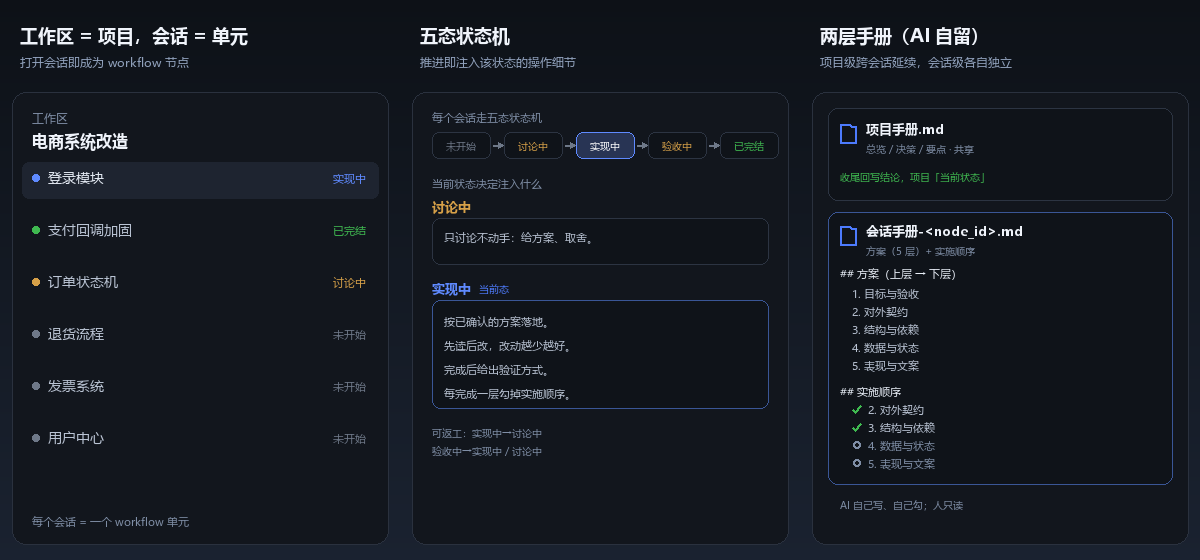
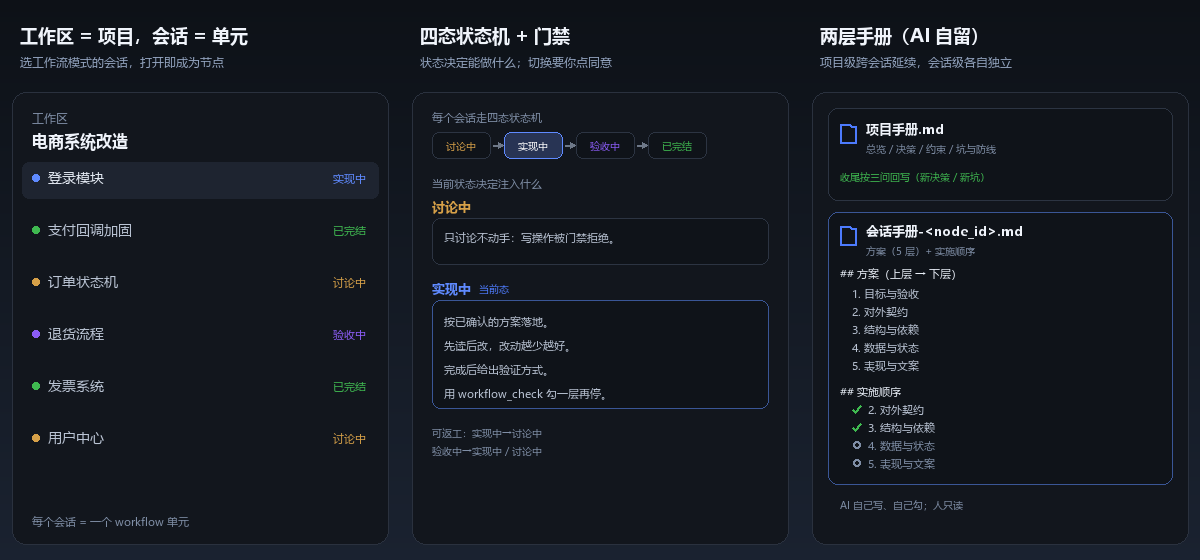
docs(cover): 封面改成四态 + 门禁 / 新手册结构，修正脚本输出路径

diff --git a/scripts/make-cover.py b/scripts/make-cover.py
@@ -1,7 +1,7 @@
-"""生成插件封面：总宽 1200（与单图同宽），横向分三个区域：
+"""生成插件封面：总宽 1200（与单图同宽），横向分三个区域：
 
   左  ：会话列表（工作区 = 项目，会话 = 单元）
-  中  ：五态状态机 + 状态决定注入什么
+  中  ：四态状态机 + 状态决定注入什么 + 写操作门禁
   右  ：两层手册（项目手册 / 会话手册）
 
 每个区域先在 400 宽的图层上画，再整体拼到总图上。
@@ -28,13 +28,14 @@ ROW_CHILD_TITLE = (186, 196, 212)
 STATE_IDLE = (110, 120, 136)
 STATE_WARN = (214, 160, 72)
 STATE_BRAND = (95, 138, 255)
+STATE_VERIFY = (139, 92, 246)
 STATE_SUCCESS = (63, 185, 80)
 CODE_BG = (15, 19, 25)
 CODE_BORDER = (44, 52, 66)
 
 FONT_REG = "C:/Windows/Fonts/msyh.ttc"
 FONT_BOLD = "C:/Windows/Fonts/msyhbd.ttc"
-OUT = r"C:\Users\Administrator\Documents\deepseek-harness\default-workspace\dsh-agent-workflow\assets\cover.png"
+OUT = r"C:\Users\QINBAI\Documents\deepseek-harness\default-workspace\dsh-agent-workflow\assets\cover.png"
 
 PANEL_TOP, PANEL_BOTTOM = 92, H - 16
 
@@ -70,7 +71,7 @@ def panel_box(d):
 # ------------------------------------------------------------------ 左：会话
 def build_sessions():
     layer, d = new_column()
-    header(d, "工作区 = 项目，会话 = 单元", "打开会话即成为 workflow 节点")
+    header(d, "工作区 = 项目，会话 = 单元", "选工作流模式的会话，打开即成为节点")
     panel_box(d)
 
     small = ImageFont.truetype(FONT_REG, 12)
@@ -86,9 +87,9 @@ def build_sessions():
         ("登录模块", "实现中", STATE_BRAND, True),
         ("支付回调加固", "已完结", STATE_SUCCESS, False),
         ("订单状态机", "讨论中", STATE_WARN, False),
-        ("退货流程", "未开始", STATE_IDLE, False),
-        ("发票系统", "未开始", STATE_IDLE, False),
-        ("用户中心", "未开始", STATE_IDLE, False),
+        ("退货流程", "验收中", STATE_VERIFY, False),
+        ("发票系统", "已完结", STATE_SUCCESS, False),
+        ("用户中心", "讨论中", STATE_WARN, False),
     ]
     y = PANEL_TOP + 76
     for title, state, color, selected in rows:
@@ -107,7 +108,7 @@ def build_sessions():
 # ------------------------------------------------------------------ 中：状态机
 def build_state():
     layer, d = new_column()
-    header(d, "五态状态机", "推进即注入该状态的操作细节")
+    header(d, "四态状态机 + 门禁", "状态决定能做什么；切换要你点同意")
     panel_box(d)
 
     small = ImageFont.truetype(FONT_REG, 11)
@@ -116,13 +117,12 @@ def build_state():
     code_font = ImageFont.truetype(FONT_REG, 11)
     dim_font = ImageFont.truetype(FONT_REG, 10)
 
-    d.text((32, PANEL_TOP + 18), "每个会话走五态状态机", font=small, fill=TEXT_MUTED)
+    d.text((32, PANEL_TOP + 18), "每个会话走四态状态机", font=small, fill=TEXT_MUTED)
 
     states = [
-        ("未开始", STATE_IDLE, False),
         ("讨论中", STATE_WARN, False),
         ("实现中", STATE_BRAND, True),
-        ("验收中", STATE_WARN, False),
+        ("验收中", STATE_VERIFY, False),
         ("已完结", STATE_SUCCESS, False),
     ]
     pill_w, pill_h = 58, 26
@@ -142,7 +142,7 @@ def build_state():
 
     d.text((32, PANEL_TOP + 106), "讨论中", font=head_font, fill=STATE_WARN)
     d.rounded_rectangle([(32, PANEL_TOP + 126), (COL_W - 32, PANEL_TOP + 126 + 46)], radius=8, fill=CODE_BG, outline=CODE_BORDER, width=1)
-    d.text((44, PANEL_TOP + 138), "只讨论不动手：给方案、取舍。", font=code_font, fill=ROW_CHILD_TITLE)
+    d.text((44, PANEL_TOP + 138), "只讨论不动手：写操作被门禁拒绝。", font=code_font, fill=ROW_CHILD_TITLE)
 
     d.text((32, PANEL_TOP + 188), "实现中", font=head_font, fill=STATE_BRAND)
     d.text((32 + d.textlength("实现中", font=head_font) + 8, PANEL_TOP + 190), "当前态", font=dim_font, fill=ACCENT)
@@ -152,7 +152,7 @@ def build_state():
         "按已确认的方案落地。",
         "先读后改，改动越少越好。",
         "完成后给出验证方式。",
-        "每完成一层勾掉实施顺序。",
+        "用 workflow_check 勾一层再停。",
     ]
     ly = box_top + 14
     for line in lines:
@@ -185,8 +185,8 @@ def build_manual():
     d.rounded_rectangle([(x0, PANEL_TOP + 16), (x1, PANEL_TOP + 16 + 92)], radius=10, fill=CODE_BG, outline=CODE_BORDER, width=1)
     file_icon(x0 + 12, PANEL_TOP + 32)
     d.text((x0 + 38, PANEL_TOP + 28), "项目手册.md", font=file_font, fill=TEXT_PRIMARY)
-    d.text((x0 + 38, PANEL_TOP + 50), "总览 / 决策 / 要点 · 共享", font=desc_font, fill=TEXT_MUTED)
-    d.text((x0 + 12, PANEL_TOP + 78), "收尾回写结论，项目「当前状态」", font=note_font, fill=STATE_SUCCESS)
+    d.text((x0 + 38, PANEL_TOP + 50), "总览 / 决策 / 约束 / 坑与防线", font=desc_font, fill=TEXT_MUTED)
+    d.text((x0 + 12, PANEL_TOP + 78), "收尾按三问回写（新决策 / 新坑）", font=note_font, fill=STATE_SUCCESS)
 
     # 会话手册
     box_top = PANEL_TOP + 120

diff --git a/README.md b/README.md
@@ -1,6 +1,6 @@
 # dsh-agent-workflow —— Agent 编排与 Workflow 状态机插件
 
-<img src="assets/cover.png" width="100%" alt="会话列表 / 四态状态机 / 两层手册">
+<img src="assets/cover.png" width="100%" alt="会话列表 / 四态状态机 + 门禁 / 两层手册">
 
 > 给 [DeepSeek Harness](https://github.com/deepseek-ai/deepseek-harness) 的桌面版插件：**工作区 = 一个项目，会话 = 一个 workflow 单元**。每个会话走**四态状态机**（讨论 → 实现 → 验收），当前状态自动决定注入给模型的操作细节，并把项目的总览、决策、约束与坑沉淀进**两层手册**（项目手册 + 会话手册）。
 
